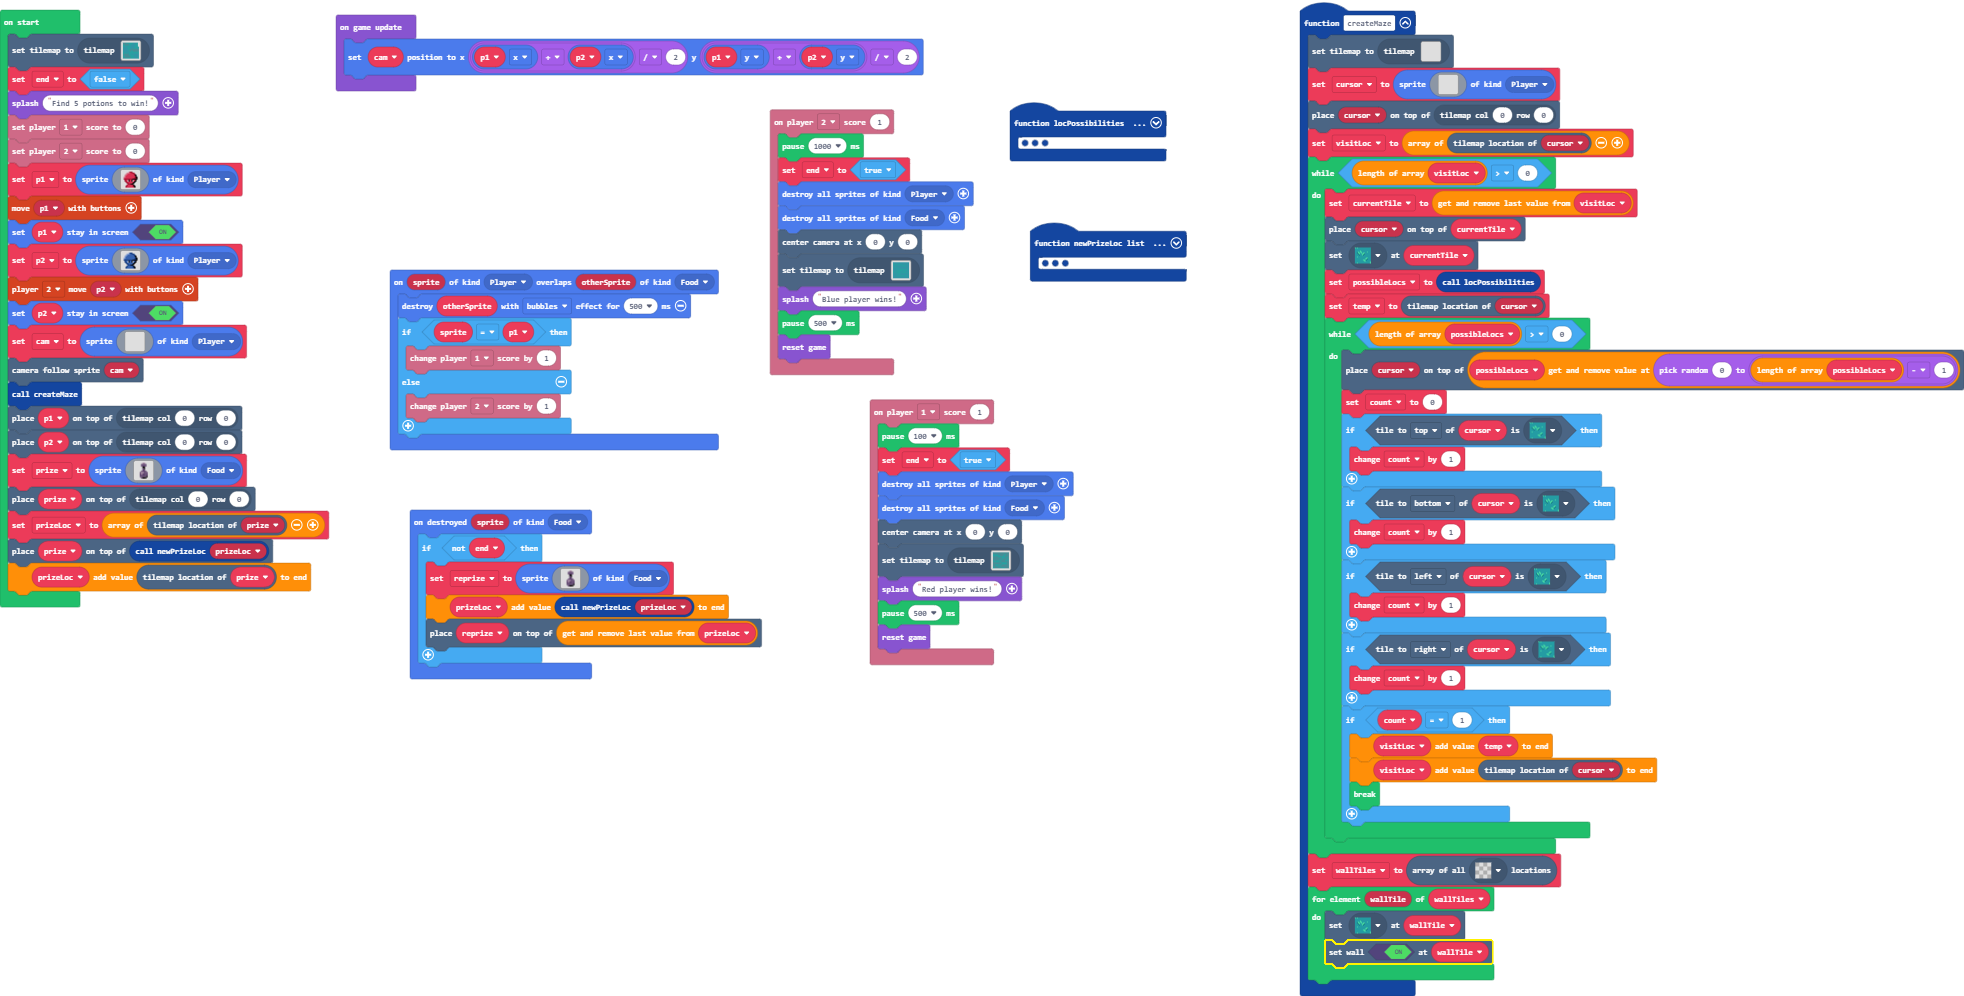
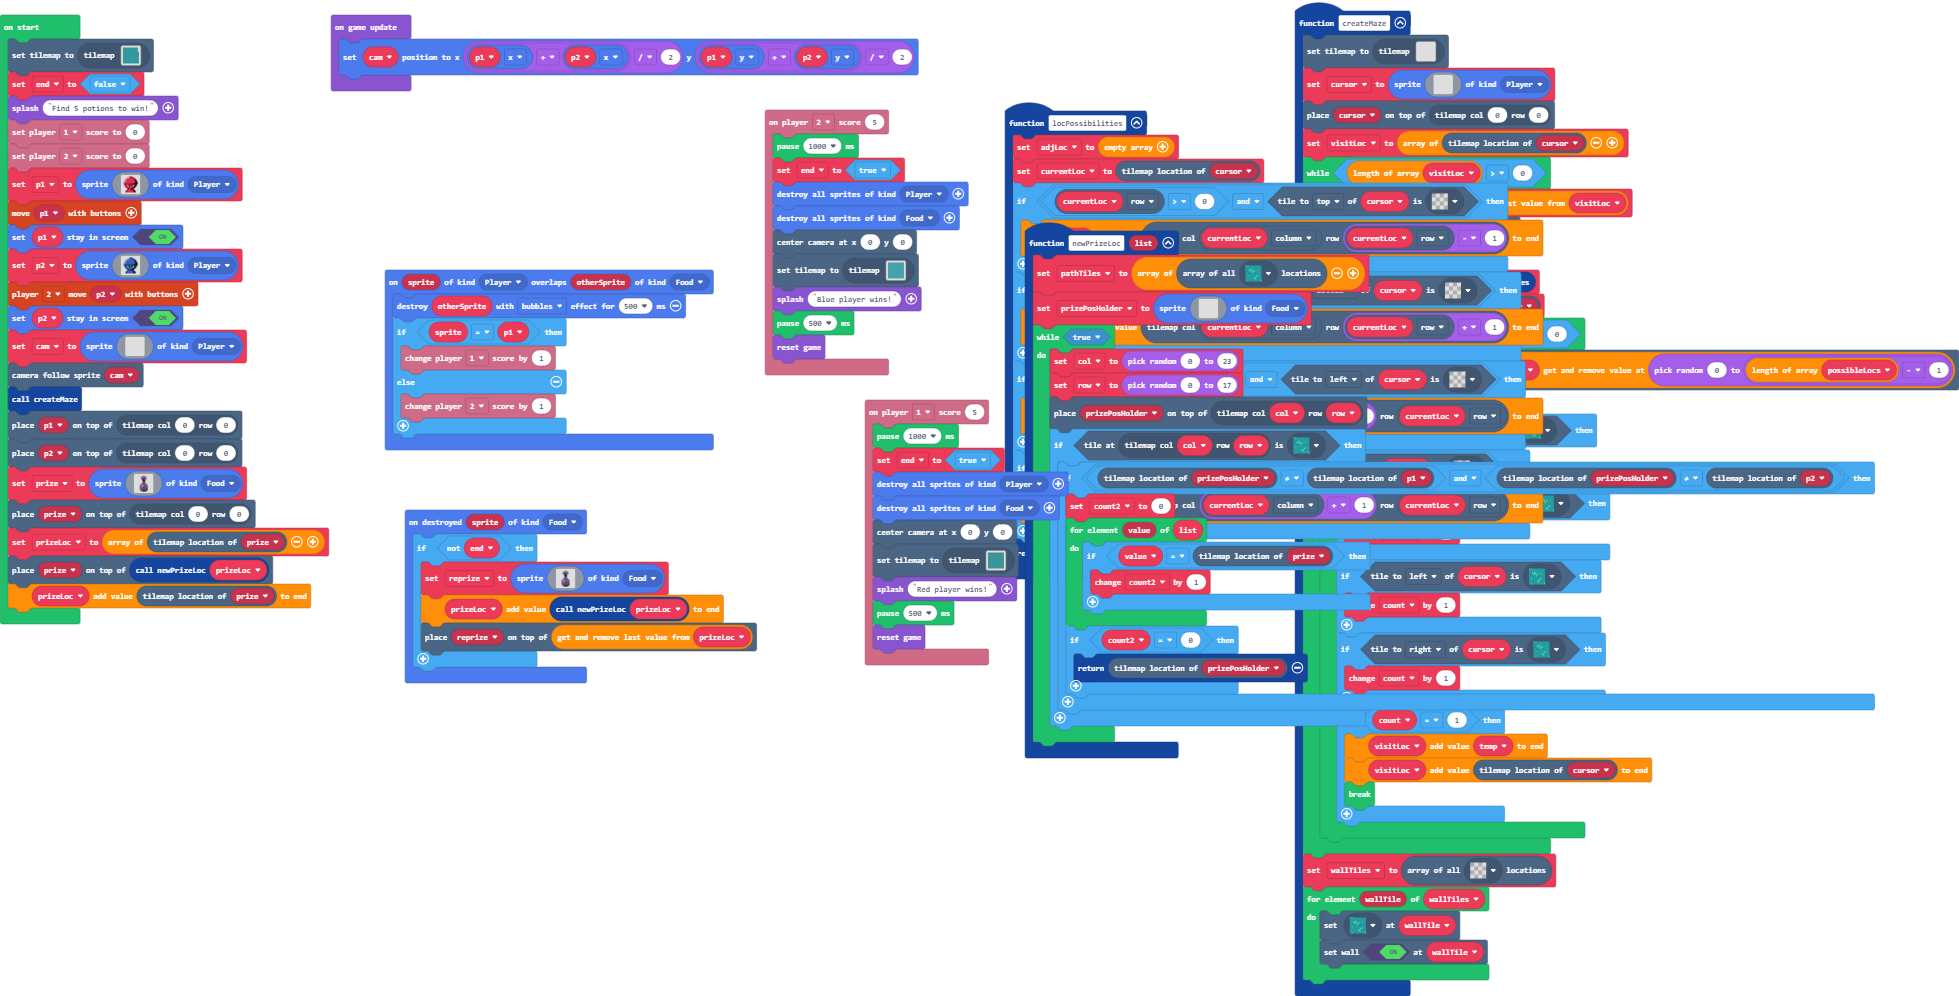
increased end screen size for blue; made wait time to end screen same

diff --git a/tilemap.g.ts b/tilemap.g.ts
@@ -107,25 +107,6 @@ namespace myTiles {
 . . . . . . . . . . . . . . . . 
 . . . . . . . . . . . . . . . . 
 `, [myTiles.transparency16,myTiles.tile1,myTiles.tile3], TileScale.Sixteen);
-            case "level4":
-            case "level4":return tiles.createTilemap(hex`1000100002020202020202020202020202020202020202020202020202020202020202020101010101010101010202020202020202020202020202020201010101020202020102020202020202020202020202020202010102020202020202020202020202020202010102020202020202020202020202020202010101010101010101020202010101010101010102010101020201010202010101010202010102020202010201010101010201010101010101010202020202010101020202020202020202020201010202020202020202020202020202020101010101010101010101020202020202020202020202020202020202020202020202020202020202020202`, img`
-. . . . . . . . . . . . . . . . 
-. . . . . . . . . . . . . . . . 
-. . . . . . . . . . . . . . . . 
-. . . . . . . . . . . . . . . . 
-. . . . . . . . . . . . . . . . 
-. . . . . . . . . . . . . . . . 
-. . . . . . . . . . . . . . . . 
-. . . . . . . . . . . . . . . . 
-. . . . . . . . . . . . . . . . 
-. . . . . . . . . . . . . . . . 
-. . . . . . . . . . . . . . . . 
-. . . . . . . . . . . . . . . . 
-. . . . . . . . . . . . . . . . 
-. . . . . . . . . . . . . . . . 
-. . . . . . . . . . . . . . . . 
-. . . . . . . . . . . . . . . . 
-`, [myTiles.transparency16,myTiles.tile1,myTiles.tile4], TileScale.Sixteen);
             case "level7":
             case "level7":return tiles.createTilemap(hex`1000100002020201010101010101030303030100020202020202010101030303010101000101020202020101030303030101010001010101010103030303030301010100030303030301010103030303010101010303030301010103030303010101010103030303030101030202020202020202030303030301020202020202020202020303030303030102010102020202020201030303030301010101010101010101010101010103010101010101010101010102020202020101030303030303030302020202020201010101010303030303010102020202020101010103030303030101020202020202010101010103030102020101010101010101030303030101`, img`
 . . . . . . . . . . . . . . . . 
@@ -145,6 +126,29 @@ namespace myTiles {
 . . . . . . . . . . . . . . . . 
 . . . . . . . . . . . . . . . . 
 `, [myTiles.transparency16,myTiles.tile1,myTiles.tile3,myTiles.tile4], TileScale.Sixteen);
+            case "level4":
+            case "level4":return tiles.createTilemap(hex`1400140002020202020202020202020202020202010102010202020202020202020202020202020201020202010101010101010101020202020202020202020202020202020202020201010101020202020202010201020202020202020202020202020202020201020201010202020202020202020202020201010102020202010102020202020202020202020101010202020202020101010101010101010202010101020201010101010101010201010102020202020101010202010101010202010102020202010101010102010101010102010101010101010102010101020202020201010102020202020202020202010102020201010202020202020202020202020202020202020201010101010101010101010202020202020202020202020202020202020202020201020202020202020202020202020202020202020102020202010202020201010202020102020102020202020202020101010202020102020201010101010202020101010101010202020202010101020202010201010101010101020202020201010102010102`, img`
+....................
+....................
+....................
+....................
+....................
+....................
+....................
+....................
+....................
+....................
+....................
+....................
+....................
+....................
+....................
+....................
+....................
+....................
+....................
+....................
+`, [myTiles.transparency16,myTiles.tile1,myTiles.tile4], TileScale.Sixteen);
         }
         return null;
     })

diff --git a/main.ts b/main.ts
@@ -1,14 +1,3 @@
-info.player1.onScore(1, function () {
-    pause(100)
-    end = true
-    sprites.destroyAllSpritesOfKind(SpriteKind.Player)
-    sprites.destroyAllSpritesOfKind(SpriteKind.Food)
-    scene.centerCameraAt(0, 0)
-    tiles.setCurrentTilemap(tilemap`level6`)
-    game.splash("Red player wins!")
-    pause(500)
-    game.reset()
-})
 sprites.onDestroyed(SpriteKind.Food, function (sprite) {
     if (!(end)) {
         reprize = sprites.create(assets.image`myImage0`, SpriteKind.Food)
@@ -72,17 +61,6 @@ function locPossibilities () {
     }
     return adjLoc
 }
-info.player2.onScore(1, function () {
-    pause(1000)
-    end = true
-    sprites.destroyAllSpritesOfKind(SpriteKind.Player)
-    sprites.destroyAllSpritesOfKind(SpriteKind.Food)
-    scene.centerCameraAt(0, 0)
-    tiles.setCurrentTilemap(tilemap`level4`)
-    game.splash("Blue player wins!")
-    pause(500)
-    game.reset()
-})
 function createMaze () {
     tiles.setCurrentTilemap(tilemap`level1`)
     cursor = sprites.create(img`
@@ -139,6 +117,17 @@ function createMaze () {
         tiles.setWallAt(wallTile, true)
     }
 }
+info.player1.onScore(5, function () {
+    pause(1000)
+    end = true
+    sprites.destroyAllSpritesOfKind(SpriteKind.Player)
+    sprites.destroyAllSpritesOfKind(SpriteKind.Food)
+    scene.centerCameraAt(0, 0)
+    tiles.setCurrentTilemap(tilemap`level6`)
+    game.splash("Red player wins!")
+    pause(500)
+    game.reset()
+})
 sprites.onOverlap(SpriteKind.Player, SpriteKind.Food, function (sprite, otherSprite) {
     sprites.destroy(otherSprite, effects.bubbles, 500)
     if (sprite == p1) {
@@ -146,6 +135,17 @@ sprites.onOverlap(SpriteKind.Player, SpriteKind.Food, function (sprite, otherSpr
     } else {
         info.player2.changeScoreBy(1)
     }
+})
+info.player2.onScore(5, function () {
+    pause(1000)
+    end = true
+    sprites.destroyAllSpritesOfKind(SpriteKind.Player)
+    sprites.destroyAllSpritesOfKind(SpriteKind.Food)
+    scene.centerCameraAt(0, 0)
+    tiles.setCurrentTilemap(tilemap`level4`)
+    game.splash("Blue player wins!")
+    pause(500)
+    game.reset()
 })
 let wallTiles: tiles.Location[] = []
 let count = 0
